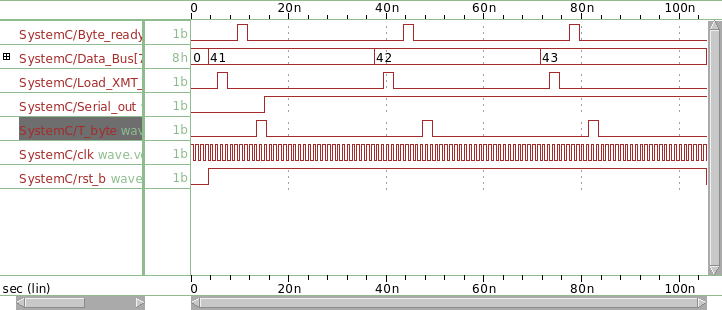
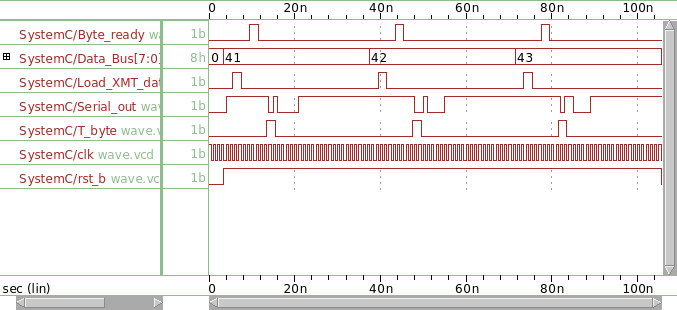
fixed lab 2

diff --git a/Lab2/UART_XMTR.cpp b/Lab2/UART_XMTR.cpp
@@ -13,6 +13,7 @@
                             // Get data register ready
                             bit_count = 0;
                             XMT_datareg = Data_Bus.read();
+                            NextIntState = STATE_IDLE;
                         if(Byte_ready.read()){
                             // Set shift register equal to data
                             XMT_shftreg = XMT_datareg;
@@ -37,17 +38,19 @@
                         }
 			break;
 		case STATE_SENDING:
-                        while(bit_count < WORD_SIZE + 1){
+                        if(bit_count < WORD_SIZE + 1){
                             // Continue to shift right and shift 1 in
                             // Since 1 is our stop bit
                             cout << "Sending " << XMT_shftreg[0] << endl;
+                            Serial_out.write(XMT_shftreg[0]);
                             XMT_shftreg = XMT_shftreg >> 1;
                             XMT_shftreg[WORD_SIZE - 1] = 1;
                             bit_count++;
+                        } else {
+                            // Reset back to idle when done
+                            NextIntState = STATE_IDLE;
+                            XMT_shftreg = 0x1ff;
                         }
-                        // Reset back to idle when done
-                        NextIntState = STATE_IDLE;
-                        XMT_shftreg = 0x1ff;
                         break;
         default:{
                     NextIntState = STATE_IDLE;
